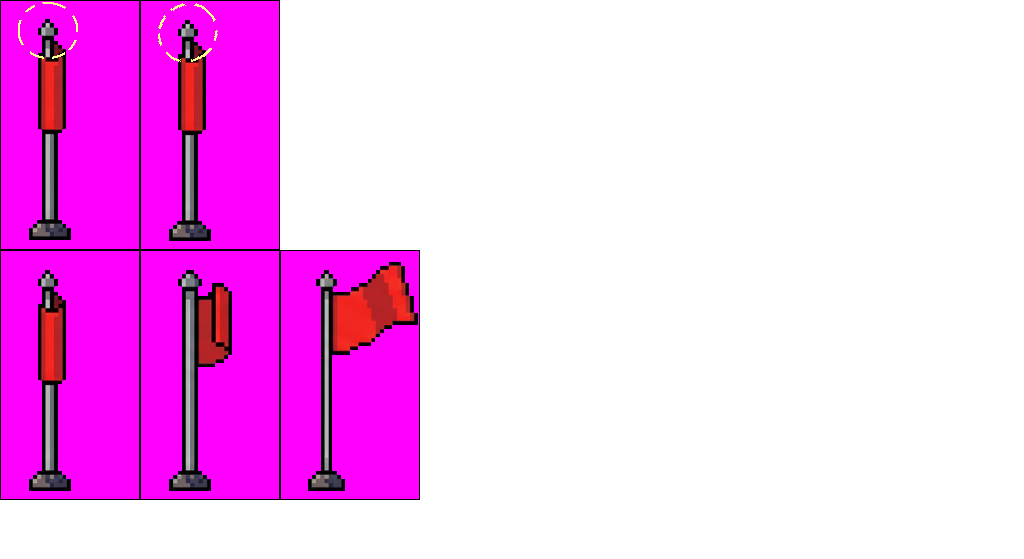
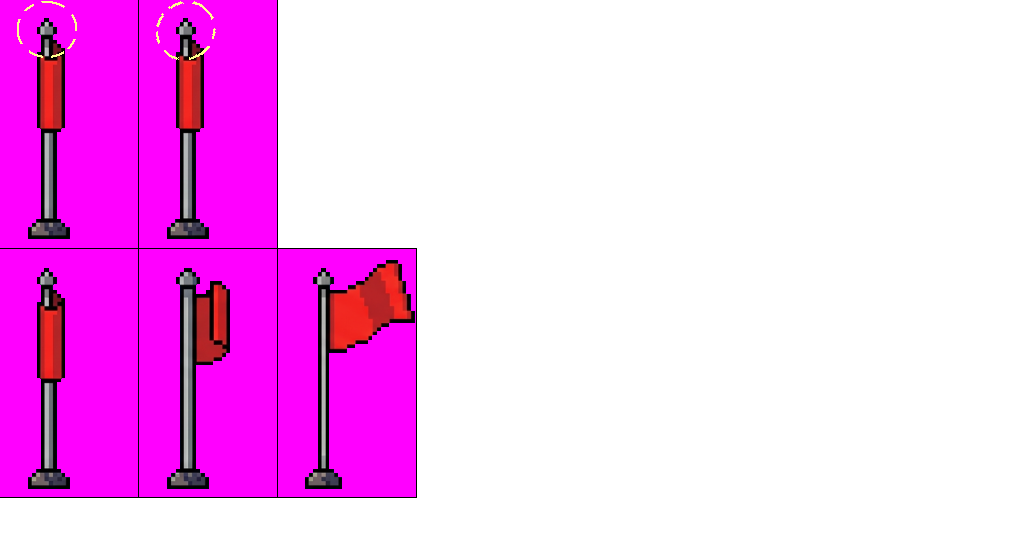
implemented checkpoint sprite

Changed region(s): [[0.0, 0.0, 0.4375, 0.9123], [0.25, 0.0, 0.2812, 0.0304]]

diff --git a/src/EnhancedMapTiles/Checkpoint.java b/src/EnhancedMapTiles/Checkpoint.java
@@ -17,22 +17,24 @@ public class Checkpoint extends EnhancedMapTile {
     boolean triggered = false;
     Map map;
     int checkPointIndex;
-    public Checkpoint(Point location, int boundWidth, int boundHeight, Map map, int chekPointIndex) {
-        super(location.x, location.y, new FrameBuilder(ImageLoader.load("transparent.png"))
-              .withScale(3)
-              .withBounds(0, 0, boundWidth, boundHeight)
-              .build(), TileType.PASSABLE);
+    public Checkpoint(Point location, int boundWidth, int boundHeight, Map map, int checkPointIndex) {
+        super(location.x, location.y,
+            new SpriteSheet(ImageLoader.load("Checkpoint.png"), 138, 248),
+            TileType.PASSABLE);
         this.map = map;
-        this.checkPointIndex = chekPointIndex;
+        this.checkPointIndex = checkPointIndex;
     }
     
     @Override
     public void update(Player player) {
+        
         super.update(player);
         if (this.intersects(player) || this.touching(player)) {
             if (triggered == false) {
                 CheckpointManager.setIndex(checkPointIndex);
                 triggered = true;
+                currentAnimationName = "COLLECTED";
+
             }
         }
         
@@ -47,24 +49,32 @@ public class Checkpoint extends EnhancedMapTile {
     public HashMap<String, Frame[]> loadAnimations(SpriteSheet spriteSheet) {
         return new HashMap<String, Frame[]>() {{
             put("COLLECTED", new Frame[] {
-                new FrameBuilder(spriteSheet.getSprite(0, 0), 20)
-                        .withScale(3)
-                        .withBounds(0, 0, 16, 6)
+                new FrameBuilder(spriteSheet.getSprite(1, 0), 30)
+                        .withScale(0.5f)
+                        .withBounds(0, 0, 138, 248)
                         .build(),
-                new FrameBuilder(spriteSheet.getSprite(0, 1), 70)
-                        .withScale(3)
-                        .withBounds(0, 0, 16, 6)
+                new FrameBuilder(spriteSheet.getSprite(1, 1), 30)
+                        .withScale(0.5f)
+                        .withBounds(0, 0, 138, 248)
                         .build(),
-                new FrameBuilder(spriteSheet.getSprite(0, 2), 240)
-                        .withScale(3)
-                        .withBounds(0, 0, 0, 0)
+                new FrameBuilder(spriteSheet.getSprite(1, 2), 30)
+                        .withScale(0.5f)
+                        .withBounds(0, 0, 138, 248)
+                        .build(),
+                new FrameBuilder(spriteSheet.getSprite(1, 1), 30)
+                        .withScale(0.5f)
+                        .withBounds(0, 0, 138, 248)
                         .build()
             });
 
-                put("UNCOLLECTED", new Frame[] {
-                    new FrameBuilder(spriteSheet.getSprite(0, 0), 40)
-                            .withScale(3)
-                            .withBounds(0, 0, 16, 6)
+                put("DEFAULT", new Frame[] {
+                    new FrameBuilder(spriteSheet.getSprite(0, 0), 10)
+                            .withScale(0.5f)
+                            .withBounds(0, 0, 138, 248)
+                            .build(),
+                    new FrameBuilder(spriteSheet.getSprite(0, 1), 10)
+                            .withScale(0.5f)
+                            .withBounds(0, 0, 138, 248)
                             .build()
                 });
             }

diff --git a/src/Utils/CheckpointManager.java b/src/Utils/CheckpointManager.java
@@ -6,7 +6,7 @@ public class CheckpointManager {
     private static final CheckpointManager instance = new CheckpointManager();
     ArrayList<Point> checkPointLists = new ArrayList<>();
     // Change This For Testing
-    static int currentIndex = 3;
+    static int currentIndex = 0;
     private CheckpointManager() {
         checkPointLists.add(new Point(144.0f, 768.0f)); // Level 1 Start Index 0
         checkPointLists.add(new Point(3120.0f, 864.0f)); // Level 1 Checkpoint Index 1

diff --git a/src/Maps/LevelOneMap.java b/src/Maps/LevelOneMap.java
@@ -104,7 +104,7 @@ public class LevelOneMap extends Map {
         Trigger trigger = new Trigger(getMapTile(122, 7).getLocation(), 1, 0, 0, 16, 80, this);
         enhancedMapTiles.add(trigger);
 
-        Checkpoint checkpoint = new Checkpoint(getMapTile(65, 18).getLocation(), 16, 16, this, 1);
+        Checkpoint checkpoint = new Checkpoint(getMapTile(65, 18).getLocation().subtractY(72), 16, 16, this, 1);
         enhancedMapTiles.add(checkpoint);
 
         return enhancedMapTiles;

diff --git a/src/Game/ScreenCoordinator.java b/src/Game/ScreenCoordinator.java
@@ -44,7 +44,7 @@ public class ScreenCoordinator extends Screen {
     public void initialize(Map level, String backgroundImageFile) {
         this.level = level;
         this.backgroundImageFile = backgroundImageFile;
-        this.destinationLevel = 3;
+        this.destinationLevel = 1;
         this.previousGameState = null;
         this.gameState = GameState.MENU;
     }
